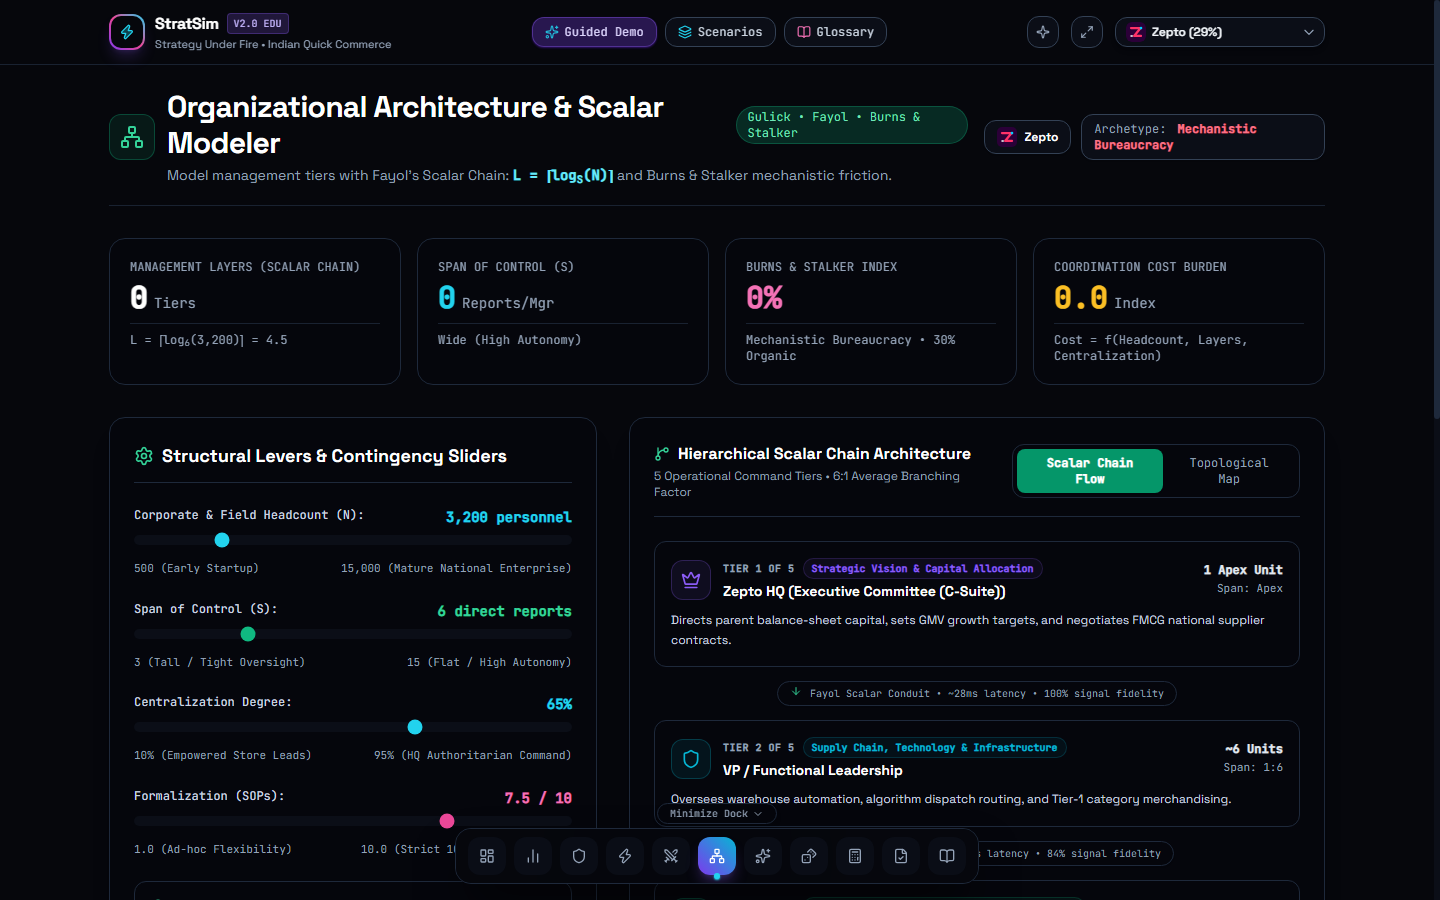
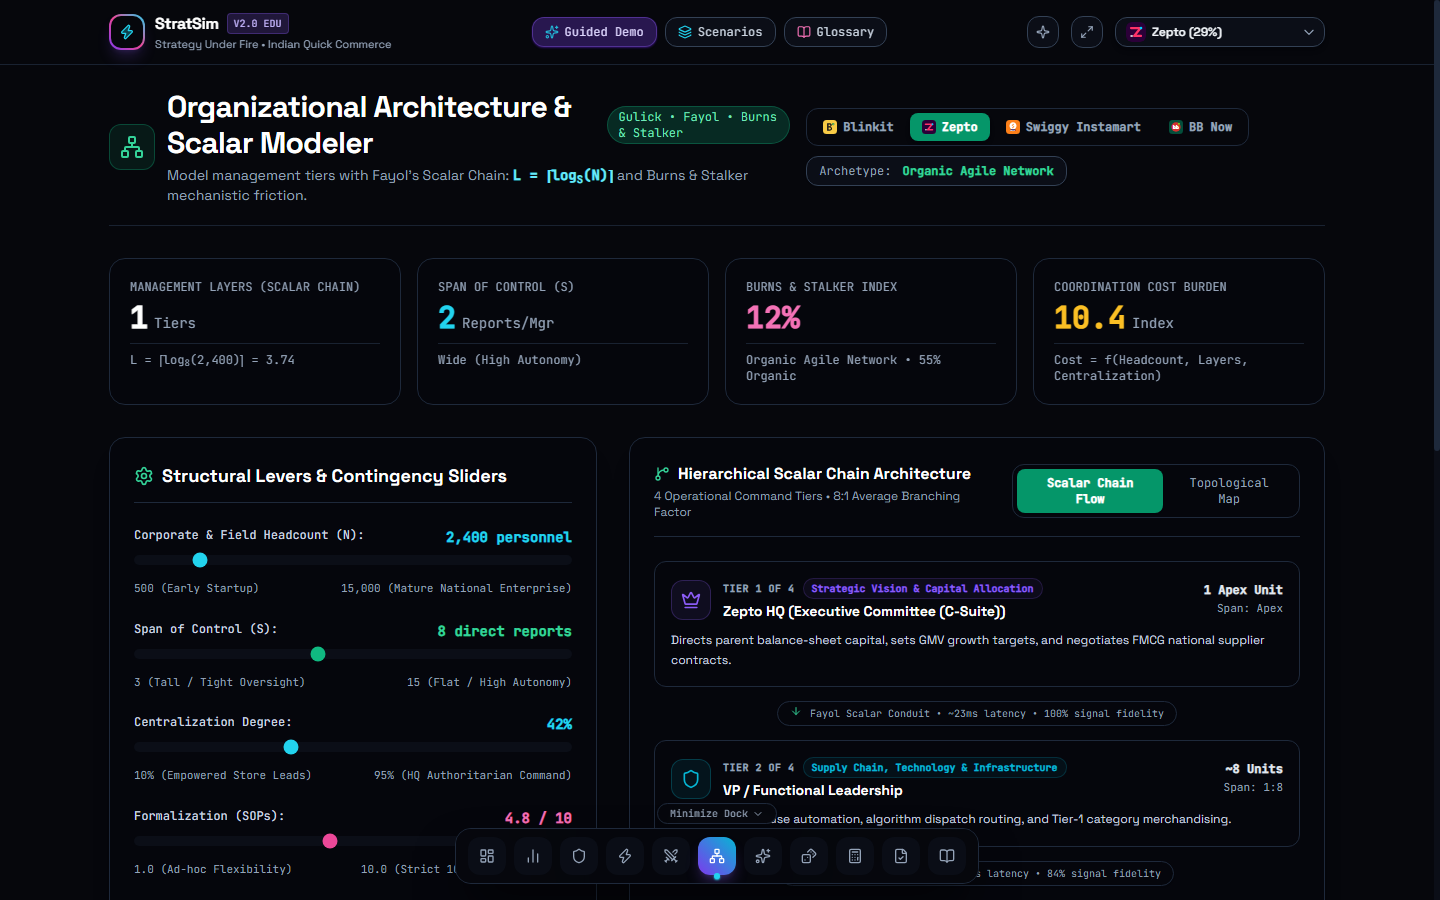
fix(org, montecarlo): dynamic company org profiles, fix histogram blank rendering, unblur hero screenshot

diff --git a/src/components/views/MonteCarloView.jsx b/src/components/views/MonteCarloView.jsx
@@ -156,24 +156,35 @@ export default function MonteCarloView() {
 
                 {/* Histogram Visualization */}
                 <div className="space-y-2 pt-3 border-t border-slate-800">
-                  <div className="text-xs text-slate-400 font-mono">Density Distribution (Frequency of Trials):</div>
-                  <div className="flex items-end gap-1.5 h-28 pt-2">
-                    {monteCarloResults.attractiveness.histogram.map((bin, bIdx) => (
-                      <div
-                        key={bIdx}
-                        className="flex-1 bg-cyan-500/30 hover:bg-cyan-400/90 rounded-t-sm transition-all group relative cursor-pointer"
-                        style={{ height: `${Math.max(6, bin.density * 3.6)}%` }}
-                      >
-                        <div className="pointer-events-none absolute -top-9 left-1/2 -translate-x-1/2 opacity-0 group-hover:opacity-100 transition-opacity bg-dark-950 px-2.5 py-1 rounded text-[10px] font-mono text-cyan-200 border border-slate-700 whitespace-nowrap z-20 shadow-lg">
-                          {bin.label}: {bin.count} runs ({bin.density}%)
-                        </div>
-                      </div>
-                    ))}
+                  <div className="flex items-center justify-between text-xs font-mono">
+                    <span className="text-slate-300 font-bold">Density Distribution (Frequency of Trials):</span>
+                    <span className="text-[11px] text-cyan-400">N=1,000 trials &bull; Gaussian Noise &sigma;=0.6</span>
                   </div>
-                  <div className="flex justify-between text-xs font-mono text-slate-500 pt-1">
-                    <span>{monteCarloResults.attractiveness.histogram[0]?.label}</span>
-                    <span>Industry Attractiveness Score (1-10)</span>
-                    <span>{monteCarloResults.attractiveness.histogram[monteCarloResults.attractiveness.histogram.length - 1]?.label}</span>
+                  <div className="flex items-end gap-1.5 h-28 pt-2">
+                    {(() => {
+                      const maxAttrDensity = Math.max(...monteCarloResults.attractiveness.histogram.map(b => b.density || (b.count / 10) || 1), 1);
+                      return monteCarloResults.attractiveness.histogram.map((bin, bIdx) => {
+                        const densityVal = bin.density !== undefined ? bin.density : Number(((bin.count / 1000) * 100).toFixed(1));
+                        const heightPct = Math.max(8, Math.min(96, (densityVal / maxAttrDensity) * 92));
+                        const labelText = bin.label || bin.rangeLabel || `Bin ${bIdx + 1}`;
+                        return (
+                          <div
+                            key={bIdx}
+                            className="flex-1 bg-cyan-500/40 hover:bg-cyan-400/90 rounded-t-sm transition-all group relative cursor-pointer border-t border-cyan-400/60"
+                            style={{ height: `${heightPct}%` }}
+                          >
+                            <div className="pointer-events-none absolute -top-9 left-1/2 -translate-x-1/2 opacity-0 group-hover:opacity-100 transition-opacity bg-dark-950 px-2.5 py-1 rounded text-[10px] font-mono text-cyan-200 border border-slate-700 whitespace-nowrap z-20 shadow-lg">
+                              {labelText}: {bin.count} runs ({densityVal}%)
+                            </div>
+                          </div>
+                        );
+                      });
+                    })()}
+                  </div>
+                  <div className="flex justify-between text-xs font-mono text-slate-400 pt-1 border-t border-slate-800/60">
+                    <span>{monteCarloResults.attractiveness.histogram[0]?.label || monteCarloResults.attractiveness.histogram[0]?.rangeLabel}</span>
+                    <span className="text-[11px] text-slate-500">Industry Attractiveness Score (1-10)</span>
+                    <span>{monteCarloResults.attractiveness.histogram[monteCarloResults.attractiveness.histogram.length - 1]?.label || monteCarloResults.attractiveness.histogram[monteCarloResults.attractiveness.histogram.length - 1]?.rangeLabel}</span>
                   </div>
                 </div>
               </div>
@@ -212,24 +223,35 @@ export default function MonteCarloView() {
 
                 {/* Histogram Visualization */}
                 <div className="space-y-2 pt-3 border-t border-slate-800">
-                  <div className="text-xs text-slate-400 font-mono">Density Distribution (Frequency of Trials):</div>
-                  <div className="flex items-end gap-1.5 h-28 pt-2">
-                    {monteCarloResults.profit.histogram.map((bin, bIdx) => (
-                      <div
-                        key={bIdx}
-                        className="flex-1 bg-pink-500/30 hover:bg-pink-400/90 rounded-t-sm transition-all group relative cursor-pointer"
-                        style={{ height: `${Math.max(6, bin.density * 3.6)}%` }}
-                      >
-                        <div className="pointer-events-none absolute -top-9 left-1/2 -translate-x-1/2 opacity-0 group-hover:opacity-100 transition-opacity bg-dark-950 px-2.5 py-1 rounded text-[10px] font-mono text-pink-200 border border-slate-700 whitespace-nowrap z-20 shadow-lg">
-                          {bin.label}: {bin.count} runs ({bin.density}%)
-                        </div>
-                      </div>
-                    ))}
+                  <div className="flex items-center justify-between text-xs font-mono">
+                    <span className="text-slate-300 font-bold">Density Distribution (Frequency of Trials):</span>
+                    <span className="text-[11px] text-pink-400">Elasticity &sigma;=0.15 &bull; Cost &sigma;=1.2</span>
                   </div>
-                  <div className="flex justify-between text-xs font-mono text-slate-500 pt-1">
-                    <span>{monteCarloResults.profit.histogram[0]?.label}</span>
-                    <span>Profit ₹ (Post Fixed & Variable Costs)</span>
-                    <span>{monteCarloResults.profit.histogram[monteCarloResults.profit.histogram.length - 1]?.label}</span>
+                  <div className="flex items-end gap-1.5 h-28 pt-2">
+                    {(() => {
+                      const maxProfitDensity = Math.max(...monteCarloResults.profit.histogram.map(b => b.density || (b.count / 10) || 1), 1);
+                      return monteCarloResults.profit.histogram.map((bin, bIdx) => {
+                        const densityVal = bin.density !== undefined ? bin.density : Number(((bin.count / 1000) * 100).toFixed(1));
+                        const heightPct = Math.max(8, Math.min(96, (densityVal / maxProfitDensity) * 92));
+                        const labelText = bin.label || bin.rangeLabel || `Bin ${bIdx + 1}`;
+                        return (
+                          <div
+                            key={bIdx}
+                            className="flex-1 bg-pink-500/40 hover:bg-pink-400/90 rounded-t-sm transition-all group relative cursor-pointer border-t border-pink-400/60"
+                            style={{ height: `${heightPct}%` }}
+                          >
+                            <div className="pointer-events-none absolute -top-9 left-1/2 -translate-x-1/2 opacity-0 group-hover:opacity-100 transition-opacity bg-dark-950 px-2.5 py-1 rounded text-[10px] font-mono text-pink-200 border border-slate-700 whitespace-nowrap z-20 shadow-lg">
+                              {labelText}: {bin.count} runs ({densityVal}%)
+                            </div>
+                          </div>
+                        );
+                      });
+                    })()}
+                  </div>
+                  <div className="flex justify-between text-xs font-mono text-slate-400 pt-1 border-t border-slate-800/60">
+                    <span>{monteCarloResults.profit.histogram[0]?.label || monteCarloResults.profit.histogram[0]?.rangeLabel}</span>
+                    <span className="text-[11px] text-slate-500">Operating Profit Per Round (₹)</span>
+                    <span>{monteCarloResults.profit.histogram[monteCarloResults.profit.histogram.length - 1]?.label || monteCarloResults.profit.histogram[monteCarloResults.profit.histogram.length - 1]?.rangeLabel}</span>
                   </div>
                 </div>
               </div>

diff --git a/src/components/views/OrgDesignView.jsx b/src/components/views/OrgDesignView.jsx
@@ -30,6 +30,7 @@ export default function OrgDesignView() {
     setOrgConfig,
     orgMetrics,
     selectedCompanyId,
+    setSelectedCompanyId,
     baselineCompanies
   } = useSimStore();
 
@@ -130,11 +131,24 @@ export default function OrgDesignView() {
             </div>
           </div>
 
-          {/* Company & Archetype Badge */}
-          <div className="flex items-center gap-2.5 self-start md:self-auto">
-            <div className="flex items-center gap-2 px-3 py-1.5 rounded-xl bg-dark-800 border border-slate-700 shadow-sm">
-              <CompanyBrandIcon id={company.id} className="w-5 h-5" showBg={false} />
-              <span className="text-xs text-white font-bold">{company.name}</span>
+          {/* Quick Company Selector & Archetype Badge */}
+          <div className="flex items-center gap-2.5 self-start md:self-auto flex-wrap">
+            <div className="flex items-center gap-1 p-1 rounded-xl bg-dark-950 border border-slate-800">
+              {baselineCompanies.map((c) => (
+                <button
+                  key={c.id}
+                  onClick={() => setSelectedCompanyId(c.id)}
+                  className={`flex items-center gap-1.5 px-3 py-1.5 rounded-lg text-xs font-mono font-bold transition-all cursor-pointer ${
+                    selectedCompanyId === c.id
+                      ? 'bg-emerald-600 text-white shadow-md'
+                      : 'text-slate-400 hover:text-white hover:bg-dark-800'
+                  }`}
+                  title={`Load ${c.name} organizational structure baseline`}
+                >
+                  <CompanyBrandIcon id={c.id} className="w-3.5 h-3.5" showBg={false} />
+                  <span>{c.name}</span>
+                </button>
+              ))}
             </div>
             <div className="px-3 py-1.5 rounded-xl bg-dark-800 border border-slate-700 text-xs font-mono shadow-sm">
               <span className="text-slate-400">Archetype: </span>
@@ -142,7 +156,7 @@ export default function OrgDesignView() {
                 orgMetrics.mechanisticScore >= 65 ? 'text-rose-400' :
                 orgMetrics.mechanisticScore <= 45 ? 'text-emerald-400' : 'text-cyan-400'
               }`}>
-                {orgMetrics.orgType}
+                {orgConfig.archetypeLabel || orgMetrics.orgType}
               </strong>
             </div>
           </div>

diff --git a/src/store/useSimStore.js b/src/store/useSimStore.js
@@ -66,7 +66,24 @@ export const useSimStore = create((set, get) => {
 
     // Selected Firm
     selectedCompanyId: 'zepto',
-    setSelectedCompanyId: (id) => set({ selectedCompanyId: id }),
+    setSelectedCompanyId: (id) => {
+      const companyOrg = orgBaselineData.companyProfiles?.[id] || orgBaselineData.defaultConfig;
+      const metrics = calculateOrgMetrics(
+        companyOrg.headcount,
+        companyOrg.spanOfControl,
+        companyOrg.centralizationPercent,
+        companyOrg.formalizationLevel
+      );
+      const companyName = companiesData.find(c => c.id === id)?.name || "Quick Commerce Corp";
+      const tree = generateOrgTree(metrics.managementLayers, companyOrg.spanOfControl, companyName);
+      
+      set({
+        selectedCompanyId: id,
+        orgConfig: companyOrg,
+        orgMetrics: metrics,
+        orgTree: tree
+      });
+    },
 
     // Companies & Baseline
     baselineCompanies: companiesData,

diff --git a/src/components/reactbits/BlurText.jsx b/src/components/reactbits/BlurText.jsx
@@ -14,10 +14,10 @@ export default function BlurText({
       {elements.map((element, index) => (
         <motion.span
           key={index}
-          initial={{ opacity: 0, filter: 'blur(10px)', y: 15 }}
+          initial={{ opacity: 0.3, filter: 'blur(3px)', y: 6 }}
           animate={{ opacity: 1, filter: 'blur(0px)', y: 0 }}
           transition={{
-            duration: 0.6,
+            duration: 0.35,
             delay: index * delay,
             ease: [0.2, 0.65, 0.3, 0.9]
           }}

diff --git a/src/engine/monteCarlo.js b/src/engine/monteCarlo.js
@@ -147,6 +147,12 @@ export function runMonteCarloSimulation(
       bins[bIdx].count++;
     });
 
+    // Populate density percentage and canonical label for chart rendering
+    bins.forEach(b => {
+      b.density = Number(((b.count / arr.length) * 100).toFixed(1));
+      b.label = b.rangeLabel;
+    });
+
     return bins;
   }
 
